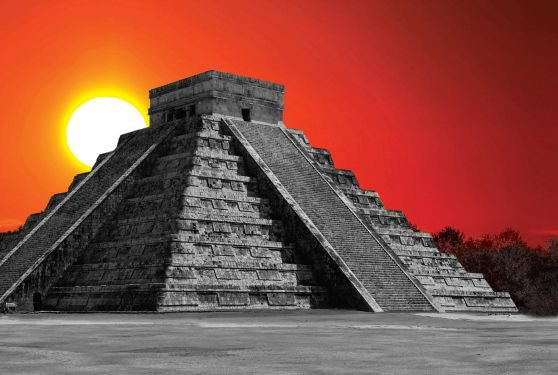
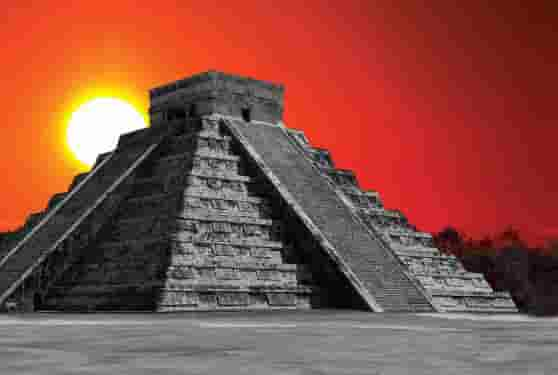
aplicando seo a mi pagina

diff --git a/index.html b/index.html
@@ -5,11 +5,19 @@
     <meta charset="UTF-8">
     <meta http-equiv="X-UA-Compatible" content="IE=edge">
     <meta name="viewport" content="width=device-width, initial-scale=1.0">
+    
+    <!--meta keywords-->
+    <meta name="keywords" content="origen, espiritualidad, ciencia, mayas, nueva era, profesías, cometa, tierra, catástrofe, asteroide"> 
+    
+    <!--meta description-->
+    <meta name="description" content="relato uno de los paradigmas imperantes que heredamos como sociedad, y quiero que tomes consciencia 
+    de lo que esto significa. unir los dos polos ciencia y espiritualidad">
+
     <!--boostrap-->
     <link href="https://cdn.jsdelivr.net/npm/bootstrap@5.1.3/dist/css/bootstrap.min.css" rel="stylesheet"
         integrity="sha384-1BmE4kWBq78iYhFldvKuhfTAU6auU8tT94WrHftjDbrCEXSU1oBoqyl2QvZ6jIW3" crossorigin="anonymous">
 
-    <title>grids-flexbox</title>
+    <title>ciencia y espiritualidad // home</title>
     <link rel="stylesheet" href="main.css">
 </head>
 
@@ -65,7 +73,7 @@
         <!--colocar 4 select-->
         <section class="img-nasa">
 
-            <img class="controla" src="./imag/aste300x200.jpg" alt="">
+            <img class="controla" src="./imag/aste300x200 (2).jpg" alt="">
             <img class="controla" src="./imag/la nasa se prepara.jpg" alt="">
         </section>
 

diff --git a/carpteta/origen.html b/carpteta/origen.html
@@ -5,11 +5,17 @@
     <meta charset="UTF-8">
     <meta http-equiv="X-UA-Compatible" content="IE=edge">
     <meta name="viewport" content="width=device-width, initial-scale=1.0">
+    <!--meta keywords-->
+    <meta name="keywords" content="origen, apocalíptico, desastres, naturales, climático, sol, maya, miedo, profesías, 7, planeta, venus, tierra, estrella, universo, solar">
+    
+    <!--meta description-->
+    <meta name="description" content="el origen es el inicio de algo nuevo por recorrer y es el paso más dificíl arrancar algo, lo que sea
+    pero después el camino siempre te lleva a buenos resultados">
     <!--boostrap-->
     <link href="https://cdn.jsdelivr.net/npm/bootstrap@5.1.3/dist/css/bootstrap.min.css" rel="stylesheet"
         integrity="sha384-1BmE4kWBq78iYhFldvKuhfTAU6auU8tT94WrHftjDbrCEXSU1oBoqyl2QvZ6jIW3" crossorigin="anonymous">
 
-    <title>Document</title>
+    <title>origen</title>
     <link rel="stylesheet" href="../main.css">
 
 </head>

diff --git a/carpteta/info.html b/carpteta/info.html
@@ -5,11 +5,19 @@
     <meta charset="UTF-8">
     <meta http-equiv="X-UA-Compatible" content="IE=edge">
     <meta name="viewport" content="width=device-width, initial-scale=1.0">
+    
+    <!--meta keywords-->
+    <meta name="keywords" content="mayas, dioses, profesía, calendario maya, ciencia, civilización, humano, espiritualidad, dios, cambios">
+    
+    <!--meta description-->
+    <meta name="description" content="que nos quisieron decir los antepasados, de que nos predijeron con las escrituras sagradas
+    y el humano ha ignorado lo veremos aquí">
+
     <!--link de bootstrap-->
     <link href="https://cdn.jsdelivr.net/npm/bootstrap@5.1.3/dist/css/bootstrap.min.css" rel="stylesheet"
         integrity="sha384-1BmE4kWBq78iYhFldvKuhfTAU6auU8tT94WrHftjDbrCEXSU1oBoqyl2QvZ6jIW3" crossorigin="anonymous">
 
-    <title>Document</title>
+    <title>información</title>
     <link rel="stylesheet" href="../main.css">
 
 </head>

diff --git a/carpteta/asteroide.html b/carpteta/asteroide.html
@@ -5,11 +5,17 @@
     <meta charset="UTF-8">
     <meta http-equiv="X-UA-Compatible" content="IE=edge">
     <meta name="viewport" content="width=device-width, initial-scale=1.0">
+    
+    <!--meta keywords-->
+    <meta name="keywords" content="asteroide, nasa, capa de ozono, cometa, ciencia, investigaciones, exploción">
+    
+    <!--meta description-->
+    <meta name="description" content="fue un asteroide aquel que termino la vida anterior al humano">
     <!--link a boostrap-->
     <link href="https://cdn.jsdelivr.net/npm/bootstrap@5.1.3/dist/css/bootstrap.min.css" rel="stylesheet"
         integrity="sha384-1BmE4kWBq78iYhFldvKuhfTAU6auU8tT94WrHftjDbrCEXSU1oBoqyl2QvZ6jIW3" crossorigin="anonymous">
 
-    <title>archivo con bootstrap</title>
+    <title>asteroide</title>
 
     <link rel="stylesheet" href="../main.css">
 

diff --git a/carpteta/multimedia.html b/carpteta/multimedia.html
@@ -5,11 +5,17 @@
     <meta charset="UTF-8">
     <meta http-equiv="X-UA-Compatible" content="IE=edge">
     <meta name="viewport" content="width=device-width, initial-scale=1.0">
+    
+    <!--meta keywords-->
+    <meta name="keywords" content="profesías, netflix, multimedia, mayas, espiritualidad, nasa">
+    
+    <!--meta description-->
+    <meta name="description" content="imagenes y videos para visualizar mejor las ideas">
     <!--link brootstrop-->
     <link href="https://cdn.jsdelivr.net/npm/bootstrap@5.1.3/dist/css/bootstrap.min.css" rel="stylesheet"
         integrity="sha384-1BmE4kWBq78iYhFldvKuhfTAU6auU8tT94WrHftjDbrCEXSU1oBoqyl2QvZ6jIW3" crossorigin="anonymous">
 
-    <title>Document</title>
+    <title>multimedia</title>
 
     <link rel="stylesheet" href="../main.css">
 </head>

diff --git a/scss/estilos.scss b/scss/estilos.scss
@@ -1,8 +1,4 @@
 
-.body-index{
-    margin: 2px;
-    border: 2px;
-}
 .navindex {
     background-image: url(../imag/economian.jpg);
     color: azure;
@@ -249,7 +245,7 @@ transform: rotateY(50deg);
     color: black;
 }
 
-// aplicando maps a elementos
+// aplicando maps a elementos de index origen y multimedia
 $colores: (
     
     origen: black,
@@ -288,3 +284,4 @@ $colores: (
 .body-index {
     @include size(2px,2px)
 }
+//cambie en squoosh imagnes de mi index para que pese menos en mi proyecto, bajando la calidad

diff --git a/css/estilos.css b/css/estilos.css
@@ -1,7 +1,3 @@
-.body-index {
-  margin: 2px;
-  border: 2px; }
-
 .navindex {
   background-image: url(../imag/economian.jpg);
   color: azure; }
